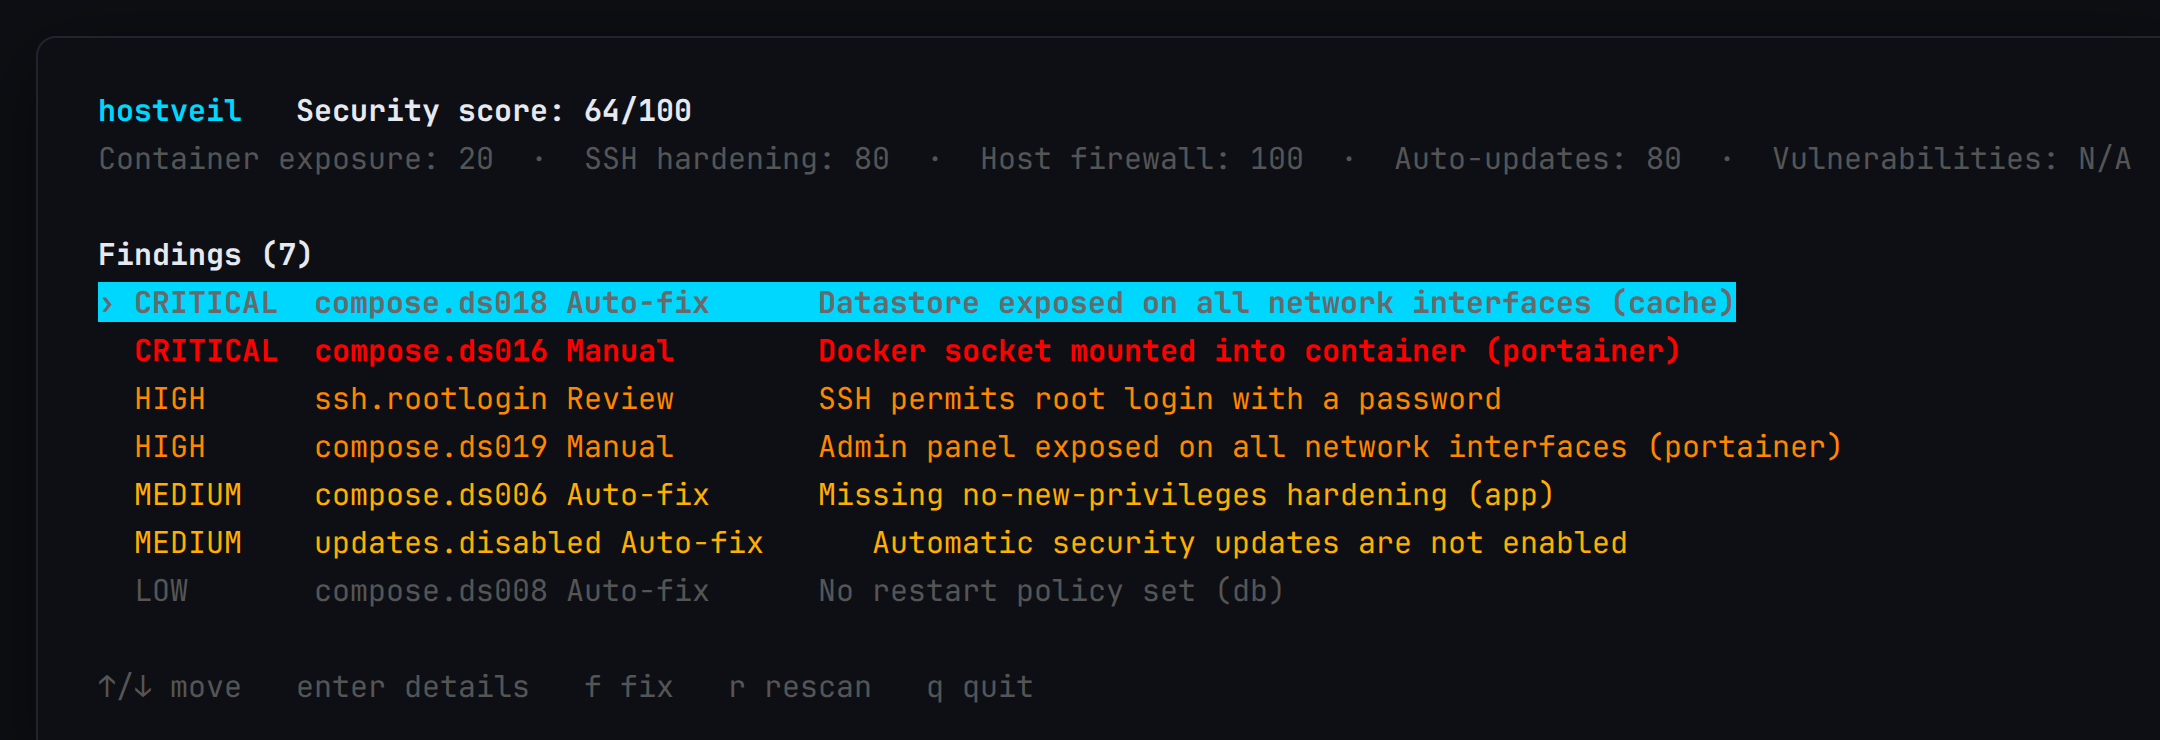
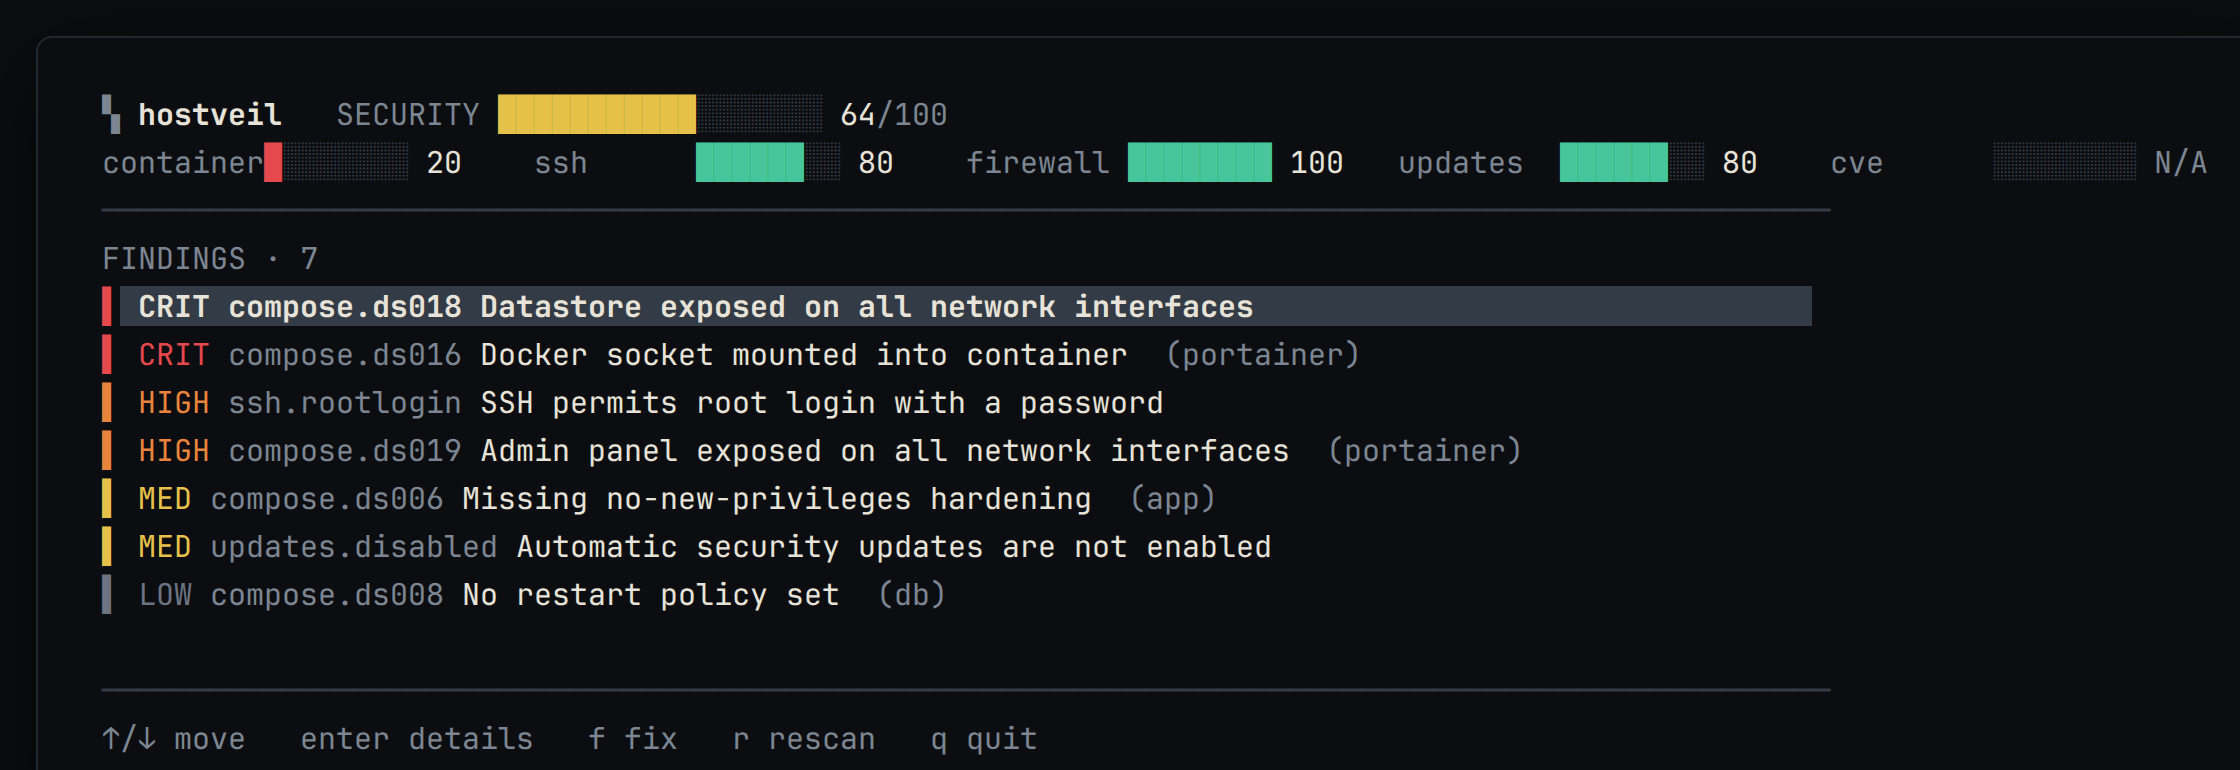
site: refresh screenshots to the new "Instrument" UI
Recapture site/assets/{tui,web}.png from the redesigned UIs (shared
exposure gauge, severity heat gutters, monochrome console) and update the
img aspect-ratio hints. The marketing site's own styling is unchanged.

Changed region(s): [[0.031, 0.3108, 0.8685, 0.8392], [0.031, 0.1243, 0.9926, 0.2797], [0.031, 0.8703, 0.8065, 0.9946]]

diff --git a/site/index.html b/site/index.html
@@ -141,11 +141,11 @@
           </div>
           <div class="screens-grid">
             <figure class="screenshot-card" data-lightbox="tui" role="button" tabindex="0" aria-label="Enlarge TUI screenshot">
-              <img src="assets/tui.png" alt="hostveil terminal UI showing the security score and findings list" width="1200" height="411" loading="lazy">
+              <img src="assets/tui.png" alt="hostveil terminal UI — exposure gauge and findings" width="1200" height="413" loading="lazy">
               <figcaption><strong>TUI</strong><span>Keyboard-driven findings, plain-language detail, fix preview, apply, and rollback.</span></figcaption>
             </figure>
             <figure class="screenshot-card" data-lightbox="web" role="button" tabindex="0" aria-label="Enlarge Web UI screenshot">
-              <img src="assets/web.png" alt="hostveil Web UI showing the dashboard and detail panel" width="1200" height="697" loading="lazy">
+              <img src="assets/web.png" alt="hostveil web dashboard — findings and fix preview" width="1200" height="580" loading="lazy">
               <figcaption><strong>Web UI</strong><span>Localhost dashboard with the score, findings, fix preview, batch fixes, and rollback.</span></figcaption>
             </figure>
           </div>